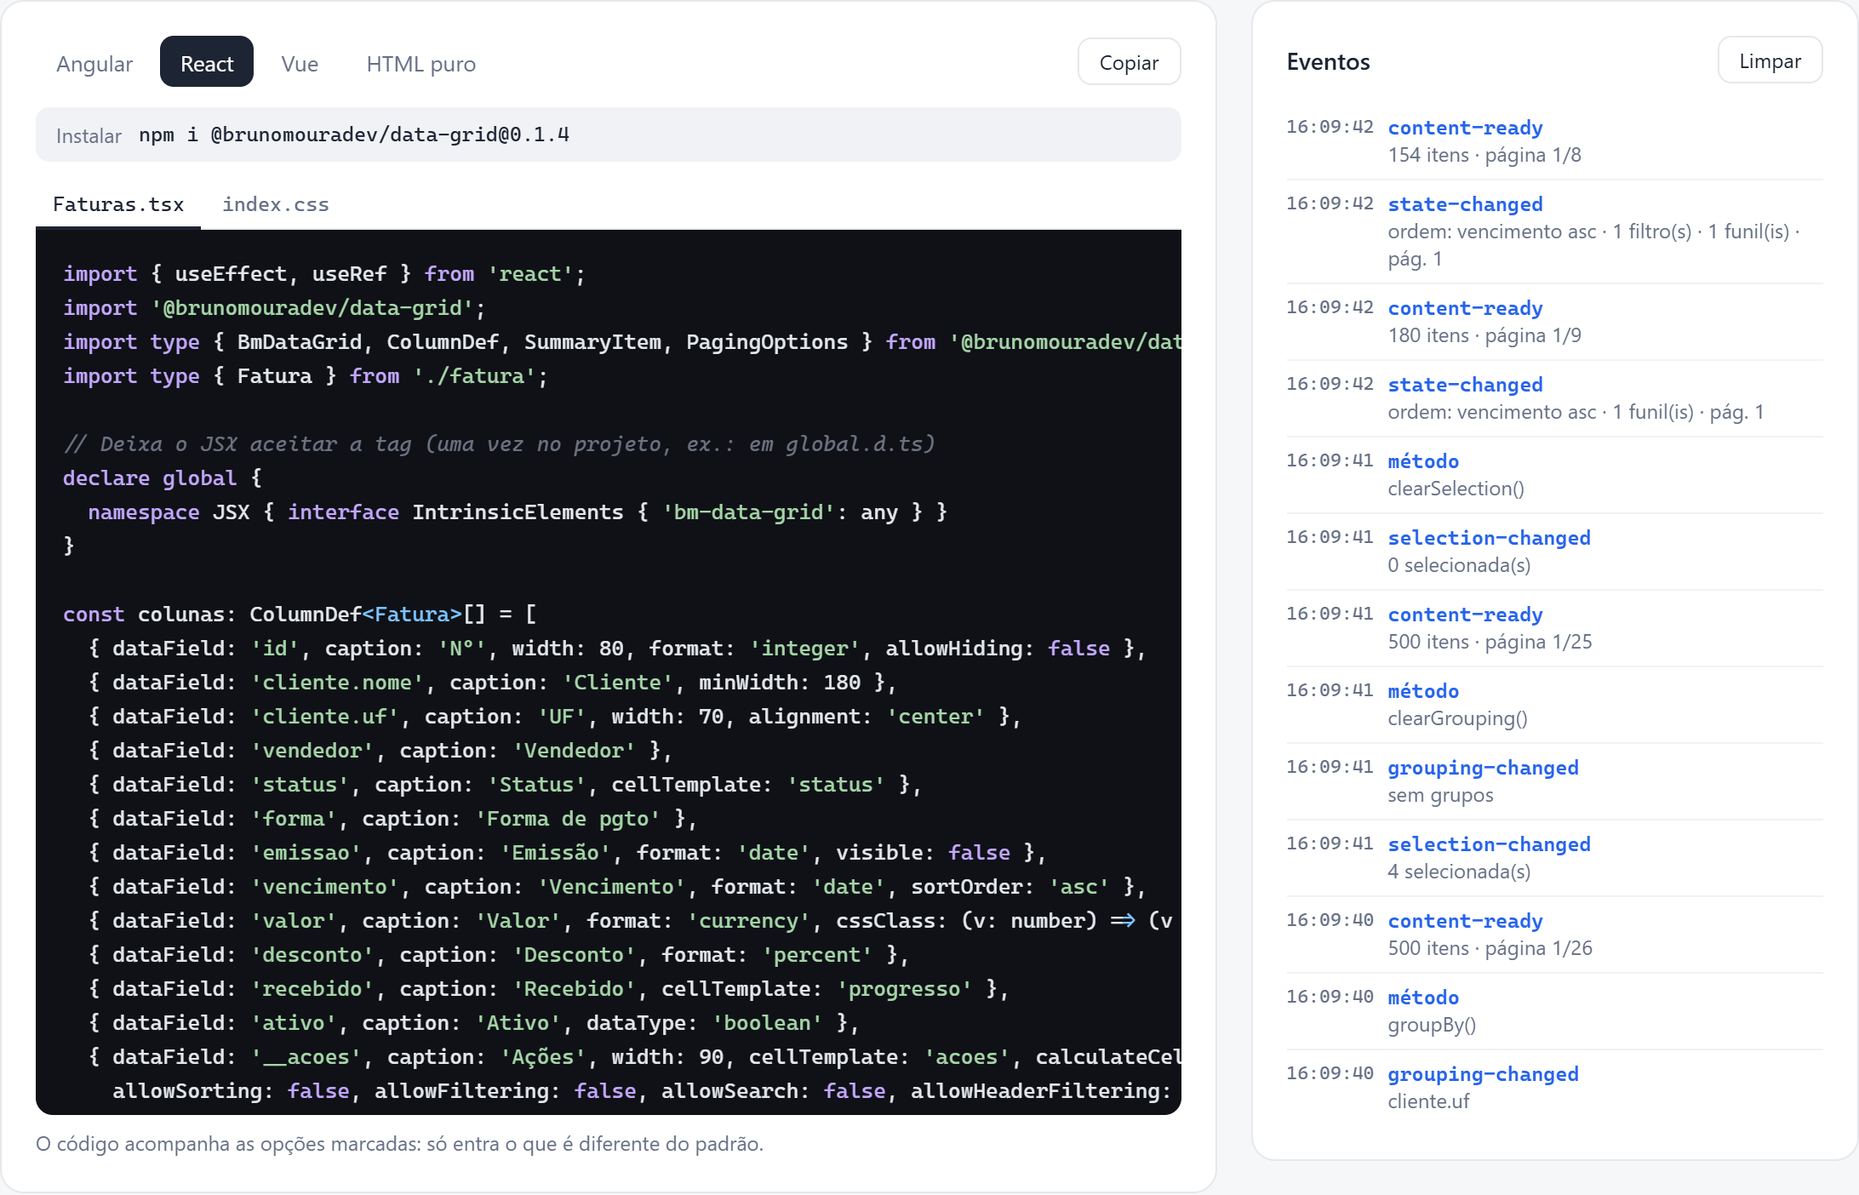
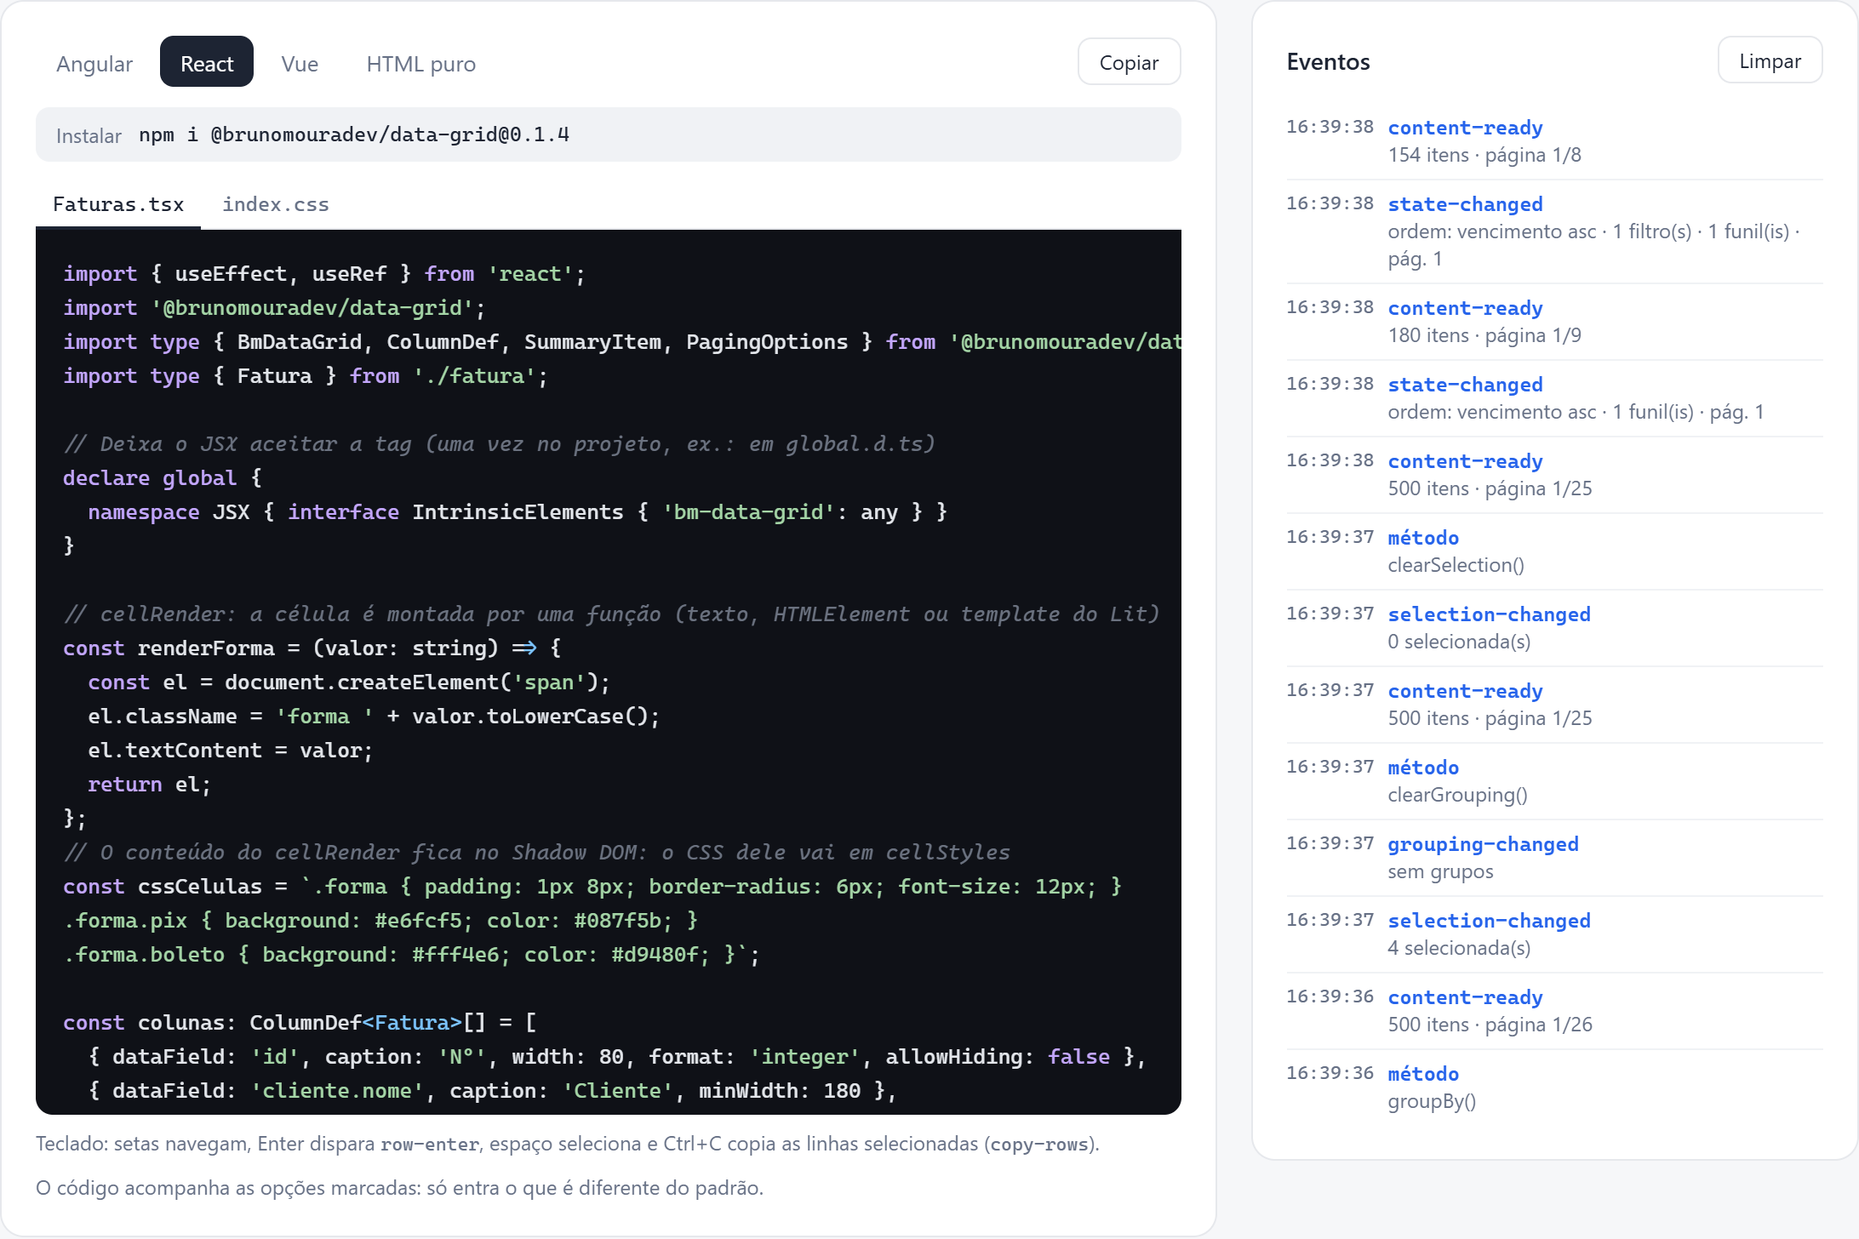
feat: barra de filtros ligada por padrão e opções que faltavam
- show-filter-panel ligado por padrão (filtros ativos embaixo da tabela)
- filtros iniciais (filterValue/selectedFilterOperation/filterValues)
- cellRender + cellStyles, messages, loading, export-sheet-name
- remoteHeaderFilter e funil aplicado no servidor simulado
- gerador de código e prints atualizados

diff --git a/src/app/app.ts b/src/app/app.ts
@@ -6,11 +6,12 @@ import type {
   PagingOptions,
   RemoteLoadOptions,
   RemoteLoadResult,
+  DataGridMessages,
   RowStyle,
   StateStoringOptions,
   SummaryItem,
 } from '@brunomouradev/data-grid';
-import { applyFilters, applySearch, applySort, resolveColumns } from '@brunomouradev/data-grid/engine';
+import { applyFilters, applyHeaderFilters, applySearch, applySort, getField, resolveColumns } from '@brunomouradev/data-grid/engine';
 import { BmCellTemplateDirective, BmDataGridTemplatesDirective } from './bm-cell-template.directive';
 import { Fatura, gerarFaturas } from './data';
 import { ArquivoCodigo, INSTALACAO, Linguagem, gerarCodigo } from './gerador-codigo';
@@ -29,6 +30,27 @@ interface Evento {
   nome: string;
   detalhe: string;
 }
+
+/** Textos trocados pela opção "Textos personalizados" (messages). */
+const MENSAGENS: Partial<DataGridMessages> = {
+  searchPlaceholder: 'Buscar fatura, cliente, vendedor…',
+  clearFilters: 'Limpar tudo',
+  noData: 'Nenhuma fatura encontrada',
+};
+
+/** cellRender: a célula é montada por uma função; o CSS vai por cellStyles (dentro do Shadow DOM). */
+const ICONES: Record<string, string> = { Pix: '◆', Boleto: '▥', Cartão: '▭', Transferência: '⇄' };
+const renderForma = (valor: string) => {
+  const el = document.createElement('span');
+  el.className = 'forma forma-' + valor.normalize('NFD').replace(/[^a-zA-Z]/g, '').toLowerCase();
+  el.textContent = `${ICONES[valor] ?? '•'} ${valor}`;
+  return el;
+};
+const CSS_FORMA = `.forma { display: inline-flex; gap: 4px; padding: 1px 8px; border-radius: 6px; font-size: 12px; }
+.forma-pix { background: #e6fcf5; color: #087f5b; }
+.forma-boleto { background: #fff4e6; color: #d9480f; }
+.forma-cartao { background: #f3f0ff; color: #6741d9; }
+.forma-transferencia { background: #e7f5ff; color: #1971c2; }`;
 
 const TOTAIS: SummaryItem[] = [
   { column: 'id', summaryType: 'count', displayFormat: '{0} faturas' },
@@ -82,6 +104,7 @@ export class App {
     const locale = this.o().locale;
     const cols = resolveColumns(this.colunas(), this.local);
     let linhas = applyFilters(this.local, op.filters, cols);
+    linhas = applyHeaderFilters(linhas, op.headerFilters, cols);
     linhas = applySearch(linhas, op.searchText, cols, locale);
     linhas = applySort(linhas, op.sorts, cols, locale);
     const soma = linhas.reduce((s, l) => s + l.valor, 0);
@@ -93,22 +116,37 @@ export class App {
     };
   };
 
+  /** Valores do funil no modo servidor (o servidor devolve os valores distintos da coluna). */
+  readonly funilRemoto = async (campo: string): Promise<any[]> => {
+    await new Promise((r) => setTimeout(r, 150));
+    return [...new Set(this.local.map((l) => getField(l, campo)))];
+  };
+
   // ───────── Configuração da grid derivada das opções ─────────
-  readonly colunas = this.derivar(['fixarId', 'colunaOpcional', 'cellTemplates', 'cssClassCelula', 'agruparPor'], (o): ColumnDef<Fatura>[] => {
+  readonly colunas = this.derivar(['fixarId', 'colunaOpcional', 'cellTemplates', 'cssClassCelula', 'agruparPor', 'filtrosIniciais', 'cellRender'], (o): ColumnDef<Fatura>[] => {
     const g = (campo: string) => (o.agruparPor === campo ? { groupIndex: 0 } : {});
     const cols: ColumnDef<Fatura>[] = [
       { dataField: 'id', caption: 'Nº', width: 80, format: 'integer', allowHiding: false, fixed: o.fixarId || undefined },
       { dataField: 'cliente.nome', caption: 'Cliente', minWidth: 180 },
       { dataField: 'cliente.uf', caption: 'UF', width: 70, alignment: 'center', ...g('cliente.uf') },
       { dataField: 'vendedor', caption: 'Vendedor', ...g('vendedor') },
-      { dataField: 'status', caption: 'Status', cellTemplate: o.cellTemplates ? 'status' : undefined, ...g('status') },
-      { dataField: 'forma', caption: 'Forma de pgto' },
+      {
+        dataField: 'status',
+        caption: 'Status',
+        cellTemplate: o.cellTemplates ? 'status' : undefined,
+        // filtro inicial do funil: tudo menos Cancelado
+        ...(o.filtrosIniciais ? { filterValues: ['Cancelado'], filterType: 'exclude' as const } : {}),
+        ...g('status'),
+      },
+      { dataField: 'forma', caption: 'Forma de pgto', cellRender: o.cellRender ? renderForma : undefined },
       { dataField: 'emissao', caption: 'Emissão', format: 'date', visible: o.colunaOpcional ? false : undefined },
       { dataField: 'vencimento', caption: 'Vencimento', format: 'date', sortOrder: 'asc' },
       {
         dataField: 'valor',
         caption: 'Valor',
         format: 'currency',
+        // filtro inicial da linha de filtro: valor >= 1000
+        ...(o.filtrosIniciais ? { filterValue: 1000, selectedFilterOperation: '>=' as const } : {}),
         cssClass: o.cssClassCelula ? (v: number) => (v < 0 ? 'negativo' : '') : undefined,
       },
       { dataField: 'desconto', caption: 'Desconto', format: 'percent' },
@@ -162,6 +200,11 @@ export class App {
           f.status === 'Cancelado' ? { color: '#868e96', 'text-decoration': 'line-through' } : null
       : undefined,
   );
+  readonly mensagens = this.derivar(['mensagens'], (o): Partial<DataGridMessages> =>
+    o.mensagens ? MENSAGENS : {},
+  );
+  readonly cellStyles = this.derivar(['cellRender'], (o) => (o.cellRender ? CSS_FORMA : ''));
+
   readonly estadoSalvo = this.derivar(['stateStoring'], (o): StateStoringOptions | undefined =>
     o.stateStoring ? { storageKey: 'prototipo-faturas-grid' } : undefined,
   );
@@ -182,7 +225,8 @@ export class App {
         { k: 'showFilterRow', rotulo: 'Linha de filtro', api: 'show-filter-row' },
         { k: 'showHeaderFilter', rotulo: 'Filtro no cabeçalho (funil)', api: 'show-header-filter' },
         { k: 'showSearchPanel', rotulo: 'Busca global', api: 'show-search-panel' },
-        { k: 'showFilterPanel', rotulo: 'Barra de filtros ativos', api: 'show-filter-panel' },
+        { k: 'showFilterPanel', rotulo: 'Barra de filtros ativos (embaixo)', api: 'show-filter-panel' },
+        { k: 'filtrosIniciais', rotulo: 'Começar já filtrado', api: 'filterValue / filterValues' },
       ],
     },
     {
@@ -212,7 +256,8 @@ export class App {
         { k: 'rowClass', rotulo: 'Atrasadas em vermelho', api: 'rowClass' },
         { k: 'rowStyle', rotulo: 'Canceladas riscadas', api: 'rowStyle' },
         { k: 'cssClassCelula', rotulo: 'Valor negativo em destaque', api: 'cssClass' },
-        { k: 'cellTemplates', rotulo: 'Templates de célula', api: 'cellTemplate' },
+        { k: 'cellTemplates', rotulo: 'Templates de célula (Angular)', api: 'cellTemplate' },
+        { k: 'cellRender', rotulo: 'Célula por função + CSS', api: 'cellRender / cellStyles' },
       ],
     },
   ];

diff --git a/src/app/gerador-codigo.ts b/src/app/gerador-codigo.ts
@@ -45,8 +45,10 @@ function atributos(o: Opcoes): string[] {
     const f = formatos(o);
     if (f !== 'xlsx,csv') a.push(`export-formats="${f}"`);
     if (o.exportFileName && o.exportFileName !== 'dados') a.push(`export-file-name="${o.exportFileName}"`);
+    if (o.exportXlsx && o.exportSheetName && o.exportSheetName !== 'Dados') a.push(`export-sheet-name="${o.exportSheetName}"`);
   }
   if (o.noDataText) a.push(`no-data-text="${o.noDataText}"`);
+  if (o.loading) a.push('loading');
   return a;
 }
 
@@ -63,7 +65,10 @@ interface Prop {
 
 function propriedades(o: Opcoes): Prop[] {
   const p: Prop[] = [];
-  if (o.fonte === 'remoto') p.push({ nome: 'remoteData', variavel: 'carregar' });
+  if (o.fonte === 'remoto') {
+    p.push({ nome: 'remoteData', variavel: 'carregar' });
+    p.push({ nome: 'remoteHeaderFilter', variavel: 'valoresFunil' });
+  }
   else p.push({ nome: 'dataSource', variavel: 'faturas' });
   p.push({ nome: 'columns', variavel: 'colunas' });
   if (o.summary) p.push({ nome: 'summary', variavel: 'totais' });
@@ -72,6 +77,8 @@ function propriedades(o: Opcoes): Prop[] {
   if (o.rowClass) p.push({ nome: 'rowClass', variavel: 'classeLinha' });
   if (o.rowStyle) p.push({ nome: 'rowStyle', variavel: 'estiloLinha' });
   if (o.stateStoring) p.push({ nome: 'stateStoring', variavel: 'estadoSalvo' });
+  if (o.mensagens) p.push({ nome: 'messages', variavel: 'textos' });
+  if (o.cellRender) p.push({ nome: 'cellStyles', variavel: 'cssCelulas' });
   if (!o.showRowLines) p.push({ nome: 'showRowLines', variavel: 'false' });
   return p;
 }
@@ -96,13 +103,14 @@ function colunasCodigo(o: Opcoes, ts: boolean, ind = '  '): string {
   linhas.push(`{ dataField: 'cliente.nome', caption: 'Cliente', minWidth: 180 }`);
   linhas.push(`{ dataField: 'cliente.uf', caption: 'UF', width: 70, alignment: 'center'${g('cliente.uf')} }`);
   linhas.push(`{ dataField: 'vendedor', caption: 'Vendedor'${g('vendedor')} }`);
-  linhas.push(`{ dataField: 'status', caption: 'Status'${o.cellTemplates ? ", cellTemplate: 'status'" : ''}${g('status')} }`);
-  linhas.push(`{ dataField: 'forma', caption: 'Forma de pgto' }`);
+  const filtroStatus = o.filtrosIniciais ? ", filterValues: ['Cancelado'], filterType: 'exclude'" : '';
+  linhas.push(`{ dataField: 'status', caption: 'Status'${o.cellTemplates ? ", cellTemplate: 'status'" : ''}${filtroStatus}${g('status')} }`);
+  linhas.push(`{ dataField: 'forma', caption: 'Forma de pgto'${o.cellRender ? ', cellRender: renderForma' : ''} }`);
   linhas.push(`{ dataField: 'emissao', caption: 'Emissão', format: 'date'${o.colunaOpcional ? ', visible: false' : ''} }`);
   linhas.push(`{ dataField: 'vencimento', caption: 'Vencimento', format: 'date', sortOrder: 'asc' }`);
   const valorTipo = ts ? '(v: number)' : '(v)';
   linhas.push(
-    `{ dataField: 'valor', caption: 'Valor', format: 'currency'${o.cssClassCelula ? `, cssClass: ${valorTipo} => (v < 0 ? 'negativo' : '')` : ''} }`,
+    `{ dataField: 'valor', caption: 'Valor', format: 'currency'${o.filtrosIniciais ? ", filterValue: 1000, selectedFilterOperation: '>='" : ''}${o.cssClassCelula ? `, cssClass: ${valorTipo} => (v < 0 ? 'negativo' : '')` : ''} }`,
   );
   linhas.push(`{ dataField: 'desconto', caption: 'Desconto', format: 'percent' }`);
   linhas.push(`{ dataField: 'recebido', caption: 'Recebido', ${o.cellTemplates ? "cellTemplate: 'progresso'" : "format: 'percent'"} }`);
@@ -120,6 +128,20 @@ function declaracoes(o: Opcoes, ts: boolean, kwBase = 'const'): string[] {
   const kw = kwBase ? kwBase + ' ' : '';
   const t = (tipo: string) => (ts ? `: ${tipo}` : '');
   const out: string[] = [];
+  if (o.cellRender) {
+    const tv = ts ? '(valor: string)' : '(valor)';
+    out.push(`// cellRender: a célula é montada por uma função (texto, HTMLElement ou template do Lit)
+${kw}renderForma = ${tv} => {
+  const el = document.createElement('span');
+  el.className = 'forma ' + valor.toLowerCase();
+  el.textContent = valor;
+  return el;
+};
+// O conteúdo do cellRender fica no Shadow DOM: o CSS dele vai em cellStyles
+${kw}cssCelulas = \`.forma { padding: 1px 8px; border-radius: 6px; font-size: 12px; }
+.forma.pix { background: #e6fcf5; color: #087f5b; }
+.forma.boleto { background: #fff4e6; color: #d9480f; }\`;`);
+  }
   out.push(`${kw}colunas${t('ColumnDef<Fatura>[]')} = ${colunasCodigo(o, ts)};`);
   if (o.summary) {
     out.push(
@@ -139,6 +161,15 @@ function declaracoes(o: Opcoes, ts: boolean, kwBase = 'const'): string[] {
     );
   }
   if (o.stateStoring) out.push(`${kw}estadoSalvo = { storageKey: 'faturas-grid' };`);
+  if (o.mensagens) {
+    out.push(
+      `${kw}textos${t('Partial<DataGridMessages>')} = {
+  searchPlaceholder: 'Buscar fatura, cliente, vendedor…',
+  clearFilters: 'Limpar tudo',
+  noData: 'Nenhuma fatura encontrada',
+};`,
+    );
+  }
   if (o.fonte === 'remoto') out.push(remoteCodigo(ts, kw));
   return out;
 }
@@ -154,7 +185,11 @@ ${kw}carregar = async ${tipo} => {
     signal: opcoes.signal,
   });
   return resp.json(); // { data: [...], totalCount: 1234, summary?: [...] }
-};`;
+};
+
+// Valores distintos de uma coluna para o funil do cabeçalho
+${kw}valoresFunil = async ${ts ? '(campo: string): Promise<any[]>' : '(campo)'} =>
+  (await fetch('/api/faturas/valores?campo=' + campo)).json();`;
 }
 
 /** CSS global (fora do Shadow DOM) para as regras e a cor. */
@@ -204,6 +239,7 @@ function angular(o: Opcoes): ArquivoCodigo[] {
   const tipos = ['BmDataGrid', 'ColumnDef', 'SummaryItem'];
   if (pagingDiferente(o)) tipos.push('PagingOptions');
   if (o.fonte === 'remoto') tipos.push('RemoteLoadOptions', 'RemoteLoadResult');
+  if (o.mensagens) tipos.push('DataGridMessages');
   const imports = [
     `import { Component, CUSTOM_ELEMENTS_SCHEMA, ElementRef, ViewChild } from '@angular/core';`,
     `import '@brunomouradev/data-grid'; // registra <bm-data-grid>`,
@@ -278,6 +314,7 @@ function react(o: Opcoes): ArquivoCodigo[] {
   const tipos = ['BmDataGrid', 'ColumnDef', 'SummaryItem'];
   if (pagingDiferente(o)) tipos.push('PagingOptions');
   if (o.fonte === 'remoto') tipos.push('RemoteLoadOptions', 'RemoteLoadResult');
+  if (o.mensagens) tipos.push('DataGridMessages');
   const atribs = atributos(o).map((a) => (a.includes('=') ? a : `${a}=""`));
   const sets = props
     .filter((p) => p.nome !== 'dataSource')
@@ -350,6 +387,7 @@ function vue(o: Opcoes): ArquivoCodigo[] {
   const tipos = ['ColumnDef', 'SummaryItem'];
   if (pagingDiferente(o)) tipos.push('PagingOptions');
   if (o.fonte === 'remoto') tipos.push('RemoteLoadOptions', 'RemoteLoadResult');
+  if (o.mensagens) tipos.push('DataGridMessages');
   const codigo = `<template>
   <bm-data-grid
 ${corpo.map((l) => '    ' + l).join('\n')}

diff --git a/src/app/app.html b/src/app/app.html
@@ -162,6 +162,10 @@
         <span>Nome do arquivo <code>export-file-name</code></span>
         <input type="text" [value]="o().exportFileName" (input)="set('exportFileName', valor($event))" />
       </label>
+      <label class="campo" [class.off]="!o().showExportButton">
+        <span>Aba do Excel <code>export-sheet-name</code></span>
+        <input type="text" [value]="o().exportSheetName" (input)="set('exportSheetName', valor($event))" />
+      </label>
     </section>
 
     <section>
@@ -169,6 +173,14 @@
       <label class="sw">
         <input type="checkbox" [checked]="o().stateStoring" (change)="alternar('stateStoring')" />
         <span class="trilho"></span><span class="rot">Lembrar estado (localStorage)</span><code>stateStoring</code>
+      </label>
+      <label class="sw">
+        <input type="checkbox" [checked]="o().mensagens" (change)="alternar('mensagens')" />
+        <span class="trilho"></span><span class="rot">Textos personalizados</span><code>messages</code>
+      </label>
+      <label class="sw">
+        <input type="checkbox" [checked]="o().loading" (change)="alternar('loading')" />
+        <span class="trilho"></span><span class="rot">Indicador de carregando</span><code>loading</code>
       </label>
       <label class="campo">
         <span>Texto sem dados <code>no-data-text</code></span>
@@ -199,6 +211,10 @@
             [style.--bm-color-primary]="o().corPrimaria || null"
             [dataSource]="dados()"
             [remoteData]="o().fonte === 'remoto' ? carregarRemoto : undefined"
+            [remoteHeaderFilter]="o().fonte === 'remoto' ? funilRemoto : undefined"
+            [loading]="o().loading"
+            [messages]="mensagens()"
+            [cellStyles]="cellStyles()"
             [columns]="colunas()"
             [selectionMode]="o().selectionMode"
             [showFilterRow]="o().showFilterRow"
@@ -225,6 +241,7 @@
             [stateStoring]="estadoSalvo()"
             [exportFormats]="exportFormats()"
             [exportFileName]="o().exportFileName || 'dados'"
+            [exportSheetName]="o().exportSheetName || 'Dados'"
             [noDataText]="o().noDataText || undefined"
             (row-click)="ev('row-click', $event)"
             (row-dblclick)="ev('row-dblclick', $event); abrir($any($event).detail.data)"
@@ -277,6 +294,7 @@
           }
         </div>
         <pre><code [innerHTML]="codigoHtml()"></code></pre>
+        <p class="dica">Teclado: setas navegam, Enter dispara <code>row-enter</code>, espaço seleciona e Ctrl+C copia as linhas selecionadas (<code>copy-rows</code>).</p>
         <p class="dica">O código acompanha as opções marcadas: só entra o que é diferente do padrão.</p>
       </section>
 

diff --git a/src/app/opcoes.ts b/src/app/opcoes.ts
@@ -21,6 +21,7 @@ export interface Opcoes {
   showHeaderFilter: boolean;
   showSearchPanel: boolean;
   showFilterPanel: boolean;
+  filtrosIniciais: boolean;
 
   // Colunas
   columnChooserEnabled: boolean;
@@ -54,16 +55,20 @@ export interface Opcoes {
   rowStyle: boolean;
   cssClassCelula: boolean;
   cellTemplates: boolean;
+  cellRender: boolean;
 
   // Exportação
   showExportButton: boolean;
   exportXlsx: boolean;
   exportCsv: boolean;
   exportFileName: string;
+  exportSheetName: string;
 
   // Estado / textos
   stateStoring: boolean;
   noDataText: string;
+  mensagens: boolean;
+  loading: boolean;
 }
 
 export const OPCOES_PADRAO: Opcoes = {
@@ -80,7 +85,8 @@ export const OPCOES_PADRAO: Opcoes = {
   showFilterRow: true,
   showHeaderFilter: true,
   showSearchPanel: true,
-  showFilterPanel: false,
+  showFilterPanel: true,
+  filtrosIniciais: false,
   columnChooserEnabled: true,
   allowColumnReordering: true,
   allowColumnResizing: true,
@@ -102,10 +108,14 @@ export const OPCOES_PADRAO: Opcoes = {
   rowStyle: false,
   cssClassCelula: true,
   cellTemplates: true,
+  cellRender: false,
   showExportButton: true,
   exportXlsx: true,
   exportCsv: true,
   exportFileName: 'faturas',
+  exportSheetName: 'Faturas',
   stateStoring: false,
   noDataText: '',
+  mensagens: false,
+  loading: false,
 };

diff --git a/README.md b/README.md
@@ -14,7 +14,7 @@ O código equivalente em **Angular, React, Vue e HTML puro** é gerado conforme 
 
 ![Tema escuro agrupado](docs/prints/02-tema-escuro-agrupado.png)
 
-**Material compacto: filtro no cabeçalho, linha de filtro, barra de filtros ativos e regras de linha (`rowClass` / `rowStyle`)**
+**Material compacto: funil no cabeçalho, linha de filtro, barra de filtros ativos embaixo da tabela (cada filtro com × para remover), regras de linha (`rowClass` / `rowStyle`) e célula por função (`cellRender`)**
 
 ![Material com filtros e regras](docs/prints/03-material-filtros-regras.png)
 
@@ -30,14 +30,16 @@ O código equivalente em **Angular, React, Vue e HTML puro** é gerado conforme 
 
 - **Dados:** 500 linhas, 100 mil linhas (rolagem virtual) ou servidor simulado (`remoteData`)
 - **Aparência:** tema (`default`, `bootstrap4`, `bootstrap5`, `tailwind`, `material`), claro/escuro/auto, densidade, idioma e cor de destaque
-- **Filtro e busca:** linha de filtro, funil no cabeçalho, busca global, barra de filtros ativos
+- **Filtro e busca:** linha de filtro, funil no cabeçalho, busca global, barra de filtros ativos embaixo da tabela (`show-filter-panel`) e filtros iniciais (`filterValue`, `selectedFilterOperation`, `filterValues`, `filterType`)
 - **Colunas:** seletor, arrastar, redimensionar, largura pelo conteúdo, coluna fixa, coluna opcional
 - **Seleção:** nenhuma, única ou múltipla
 - **Paginação:** tamanho da página, seletor de tamanho, info
 - **Agrupamento:** painel de grupos, agrupar ao abrir, expandir/recolher, totais por grupo
-- **Totais e regras:** totais no rodapé, `rowClass`, `rowStyle`, `cssClass` e templates de célula (`bmCellTemplate`)
-- **Exportação:** Excel e CSV, nome do arquivo
-- **Estado:** `stateStoring` (localStorage) e texto de "sem dados"
+- **Totais e regras:** totais no rodapé, `rowClass`, `rowStyle`, `cssClass`, templates de célula (`bmCellTemplate`) e `cellRender` + `cellStyles`
+- **Exportação:** Excel e CSV, nome do arquivo e da aba (`export-sheet-name`)
+- **Estado e textos:** `stateStoring` (localStorage), `messages` (textos personalizados), `loading` e texto de "sem dados"
+- **Servidor:** `remoteData` e `remoteHeaderFilter` (valores do funil vindos do servidor)
+- **Teclado:** setas, Enter (`row-enter`), espaço seleciona, Ctrl+A, Ctrl+C copia para o Excel (`copy-rows`)
 - **Métodos:** `selectAll`, `selectRows`, `sortBy`, `groupBy`, `expandAll`, `navigateToRow`, `exportToExcel`, `resetColumnLayout`…
 
 ## Rodar
